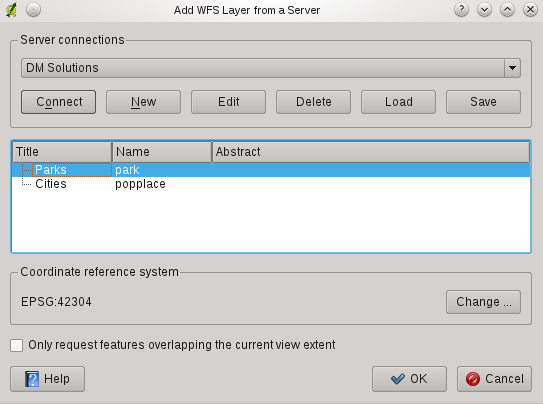
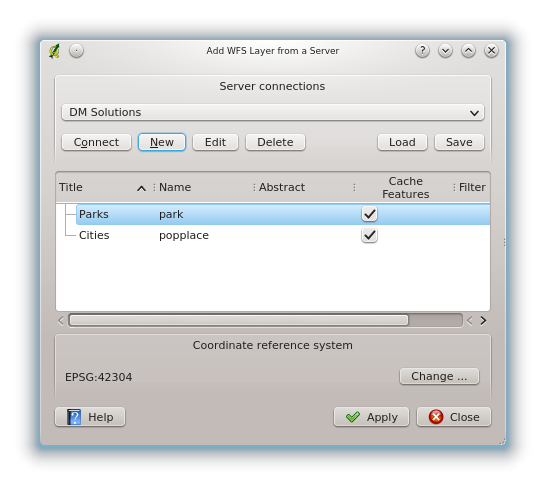
new screenshot for wfs, corrected little mistakes and text structure

diff --git a/source/docs/user_manual/working_with_ogc/ogc_client_support.rst b/source/docs/user_manual/working_with_ogc/ogc_client_support.rst
@@ -194,7 +194,7 @@ requirements.
 **Options**
 
 
-The Options field provides a text-field where you can add a :guilabel:`Layer name`
+The Options field provides a text field where you can add a :guilabel:`Layer name`
 for the WMS-layer. This name will be presented in the legend after loading
 the layer.
 
@@ -275,7 +275,7 @@ Server-Search
 --------------
 
 Within QGIS you can search for WMS-servers. Figure_OGC_2_ shows
-the tab :guilabel:`Search` with the :guilabel:`Add Layer(s) from a
+the tab :guilabel:`Server Search` with the :guilabel:`Add Layer(s) from a
 Server` dialog.
 
 .. _Figure_OGC_2:
@@ -292,23 +292,17 @@ Server` dialog.
 
 As you can see it is possible to enter a search-string in the text field
 and hit the :guilabel:`Search` button.
-
 After a short while the search result will be populated into the tab below
 the text field.
-
 Browse the result list and inspect your search results within the table.
 To visualize the results, select a table entry, press the :guilabel:`Add
 selected row to WMS-list` button and change back to the tab :guilabel:`Server`.
-
 QGIS automatically has updated your server list and the selected search
-result is already enabled in the list of saved WMS-servers.
-
+result is already enabled in the list of saved WMS-servers in the :guilabel:`Layers` tab.
 You only need to request the list of layers by clicking the
 **[Connect]** button.
-
 This option is quite handy when you want to search maps by specific
 keywords.
-
 Basically this option is a frontend to the API of http://geopole.org.
 
 .. _`tilesets`:
@@ -322,7 +316,6 @@ When using WMS-C (Cached WMS) Services like
 http://labs.metacarta.com/wms-c/Basic.py you are able to browse through
 the tab :guilabel:`Tilesets` given by the server. Additional information like
 tile size, formats and supported CRS are listed in this table.
-
 In combination with this feature you can use the tile scale slider from
 the :menuselection:`View --> Tile scale slider`, which gives you the
 available scales from the tileserver with nice slider docked in.
@@ -338,7 +331,6 @@ Once you have added a WMS server, and if any layer from a WMS server is
 queryable, you can then use the |mActionIdentify| :sup:`Identify`
 tool to select a pixel on the map canvas. A query is made to the WMS
 server for each selection made.
-
 The results of the query are returned in plain text. The formatting of
 this text is dependent on the particular WMS server used.
 
@@ -362,7 +354,6 @@ right-clicking on it in the legend, and selecting :menuselection:`Properties`.
 The tab :guilabel:`Metadata` displays a wealth of information about the WMS
 server, generally collected from the Capabilities statement returned from
 that server.
-
 Many definitions can be gleaned by reading the 
 WMS standards (see OPEN-GEOSPATIAL-CONSORTIUM :ref:`literature_and_web`), 
 but here are a few handy definitions:
@@ -424,7 +415,6 @@ of QGIS. Some of the more notable exceptions follow.
 
 Once you've completed the |mActionAddWmsLayer| :sup:`Add WMS layer`
 procedure, there is no ability to change the settings.
-
 A workaround is to delete the layer completely and start again.
 
 **WMS Servers Requiring Authentication**
@@ -480,7 +470,7 @@ The URL is: http://www2.dmsolutions.ca/cgi-bin/mswfs_gmap
 #. Choose :guilabel:`Server Connections DM Solutions` |selectstring| from the dropdown box
 #. Click **[Connect]**
 #. Wait for the list of layers to be populated
-#. select the :guilabel:`Parks` layer in the list
+#. Select the :guilabel:`Parks` layer in the list
 #. Click **[Apply]** to add the layer to the map
 
 Note that proxy-settings you have set in your preferences are also recognized.
@@ -501,25 +491,21 @@ Note that proxy-settings you have set in your preferences are also recognized.
    loading of features is allready prevented by default when it is not
    the first layer loaded? This needs to be checked..
 
-Without using the checkbox |checkbox| 
-:guilabel:`Only request features overlapping the current view extent` 
-QGIS fetches all features from the WFS-server. If you
-only want to have a small selection based on your extent, zoom to the area
-of interest, request the WFS-layer again and make sure you have checked
-the checkbox mentioned above. Basically this adds the BBOX-parameter with
-the values from your current extent to the WFS-query. This is extremely
-useful when you only want to request **some** features from a huge
-WFS-dataset.
+.. Without using the checkbox |checkbox| 
+.. :guilabel:`Only request features overlapping the current view extent` 
+.. QGIS fetches all features from the WFS-server. If you
+.. only want to have a small selection based on your extent, zoom to the area
+.. of interest, request the WFS-layer again and make sure you have checked
+.. the checkbox mentioned above. Basically this adds the BBOX-parameter with
+.. the values from your current extent to the WFS-query. This is extremely
+.. useful when you only want to request **some** features from a huge
+.. WFS-dataset.
 
 You'll notice the download progress is visualized in the left bottom of
 the QGIS main window. Once the layer is loaded, you can identify and
 select a province or two and view the attribute table.
 
-Adding WFS layers works best with MapServer WFS servers. It still
-could be, that you might experience random behavior and crashes. You can
-look forward to improvements in a future version of the plugin.
-
-This means that only WFS 1.0.0 is supported. At this point there have not
+Only WFS 1.0.0 is supported. At this point there have not
 been many tests against WFS versions implemented in other WFS-servers.
 If you encounter problems with any other WFS-server, please do not
 hesitate to contact the development team. Please refer to Section

diff --git a/source/docs/user_manual/working_with_ogc/ogc_server_support.rst b/source/docs/user_manual/working_with_ogc/ogc_server_support.rst
@@ -18,7 +18,7 @@ funded by the EU projects Orchestra, Sany and the city of Uster in Switzerland.
 It uses QGIS as backend for the GIS logic and for map rendering. Furthermore the 
 Qt library is used for graphics and for platform independent 
 C++ programming. In contrast to other WMS software, the QGIS Server uses 
-cartographic rules in as a configuration language, both for the server 
+cartographic rules as a configuration language, both for the server 
 configuration and for the user-defined cartographic rules. 
 
 .. index:: Publish_to_Web_plugin
@@ -56,10 +56,8 @@ have to build it all from source, please refer to the URLs above.
 Apart from qgis and qgis-mapserver you need a webserver, in our case apache2. 
 You can install all packages with aptitude or apt-get install together 
 with other necessary dependency packages.
-
 After installation you should test, if the webserver and qgis server works as 
 expected. 
-
 Make sure the apache server is running with ``/etc/init.d/apache2 start``. Open 
 a web browser and type URL: ``http://localhost``. If apache is up, you should see 
 the message 'It works!'.
@@ -106,15 +104,12 @@ done.
 
 Then open the ``OWS Server`` tab in the menu :menuselection:`Settings --> 
 Project Properties` and define the general fields under 'Service Capabilities'.
-
 For ``WMS Capabilities`` define 'Coordinate System Restrictions' and 'Advertised Extend'. 
 Additionally you can enable the checkbox |checkbox| :guilabel:`Add WKT geometry to 
 feature into response` to make the layers queryable and add a Maximum width and height that 
 can be requested.
-
 For ``WFS Capabilities`` you only need to select the layers that you want to provide 
 as WFS. Now save the session in a project file :file:`alaska.qgs`. 
-
 To provide the project as a WMS/WFS, we create a new folder ``/usr/lib/cgi-bin/project`` 
 with admin privileges and add the project file :file:`alaska.qgs` and a copy of the 
 :file:`qgis\_mapserv.fcgi` file - that's all.

diff --git a/source/docs/user_manual/working_with_raster/raster_calculator.rst b/source/docs/user_manual/working_with_raster/raster_calculator.rst
@@ -41,7 +41,7 @@ to the raster calculator expression box, click the appropriate button. Mathemati
 calculations ( + , - , * , ... ) and trigonometric functions ( sin, cos, tan, ... ) 
 are available. Stay tuned for more operators to come!
 
-With the |checkbox| :guilabel:`Result to project` checkbox the result layer will 
+With the |checkbox| :guilabel:`Add result to project` checkbox the result layer will 
 automatically added to the legend area and can be visualized.
 
 
@@ -61,7 +61,7 @@ conversion factor for meters to feet: 3.28. The expression is:
 
 If you want to mask out parts of a raster, because you are only interested in 
 elevations above 0 meter, you can use following expression to create a mask 
-and apply the result to a ne raster in one step.
+and apply the result to a raster in one step.
 
 ::
 
@@ -78,7 +78,7 @@ it to 0. This creates the mask on the fly.
   le( elevation@1, 50, 200 )
 
 All cells in the elevation raster with a value less or equal (le) then 50 will 
-be replaces with the value 200. 
+be replaced with the value 200. 
 
 ::
 
